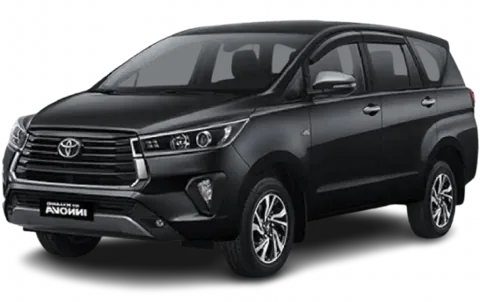
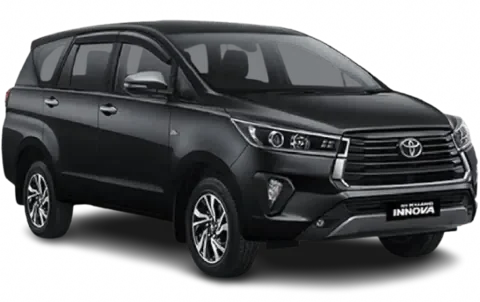
feat(cars): branded unit brochures; fix mirrored Innova Reborn photo
- The 14 branded unit cards from the old site (car, Arasya logo, contact)
  are used as each unit page's share image (WhatsApp/social previews) and
  shown beside the rates as a brochure visitors can open, save or forward.
- The Innova Reborn cut-out was mirrored ("AVONNI" on the badge); flipped
  back so the badge reads correctly.

Claude-Session: https://claude.ai/code/session_01GUVxXbMftMVqH66VYsDgrU

diff --git a/src/lib/images.ts b/src/lib/images.ts
@@ -29,3 +29,15 @@ export function photo(image: any, path: string | undefined, width = 1200): Img |
   }
   return path ? { src: path } : null;
 }
+
+/**
+ * Branded unit cards (car + Arasya logo + contact), one per car slug, in
+ * public/cars/brochure. Used as the share image for unit pages and shown on
+ * the page as a brochure the visitor can save or forward.
+ */
+import { existsSync } from 'node:fs';
+import { join } from 'node:path';
+export function brochure(slug: string): { webp: string; jpg: string } | null {
+  const base = `/cars/brochure/${slug}`;
+  return existsSync(join(process.cwd(), 'public', `${base}.jpg`)) ? { webp: `${base}.webp`, jpg: `${base}.jpg` } : null;
+}
